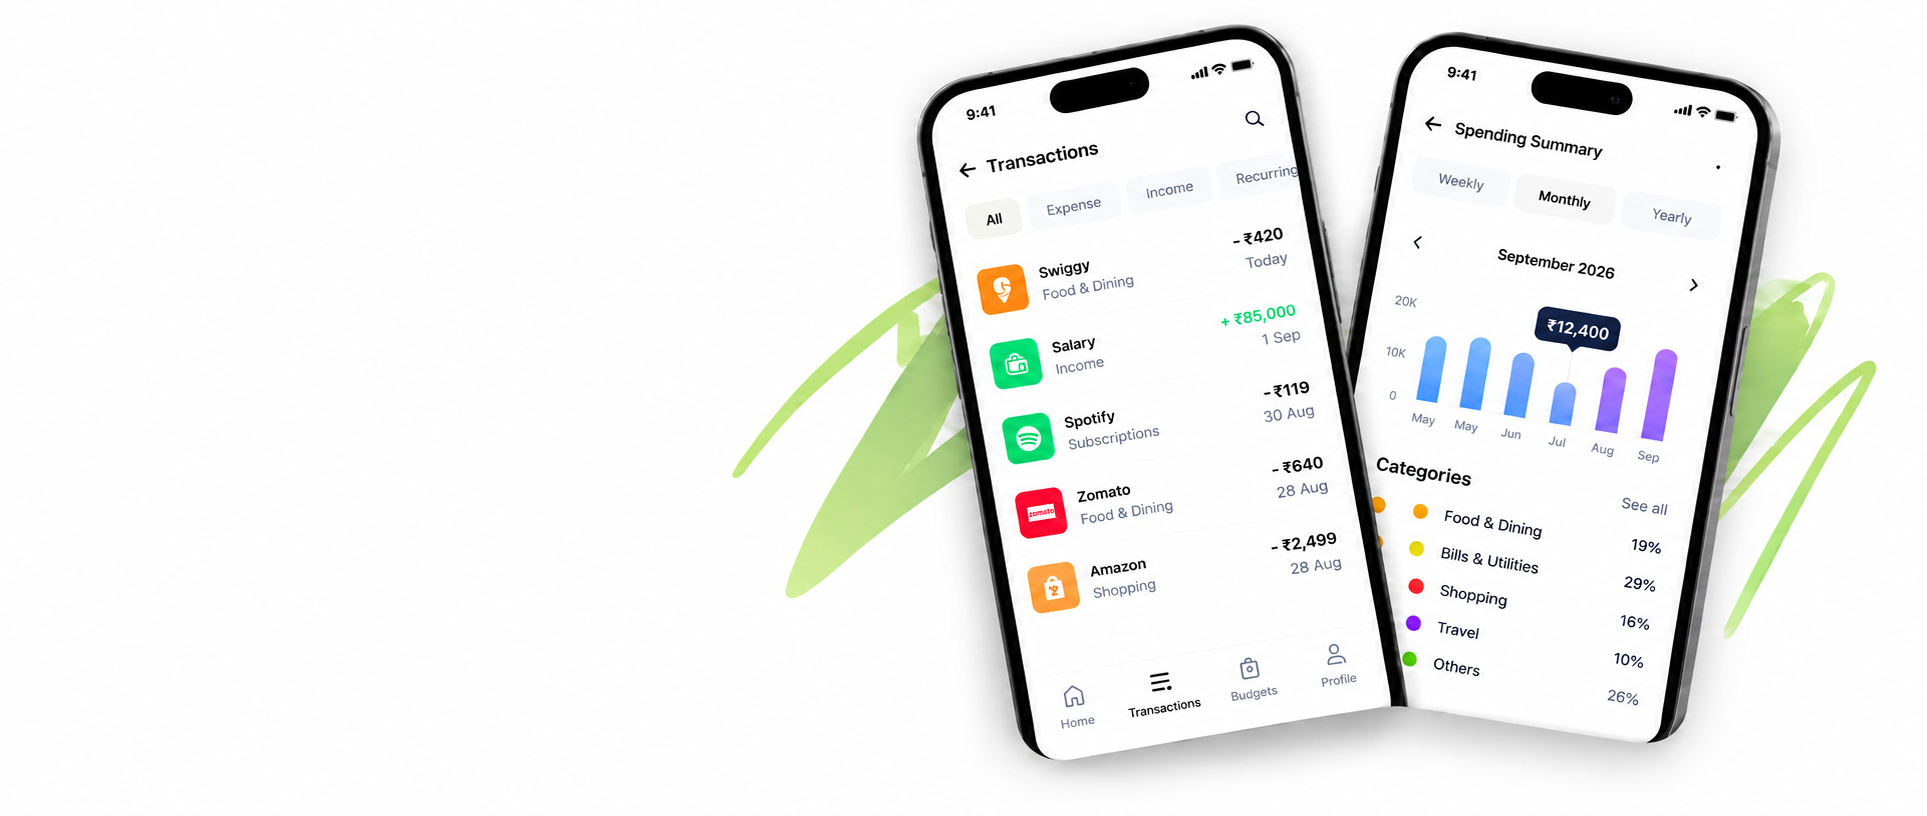
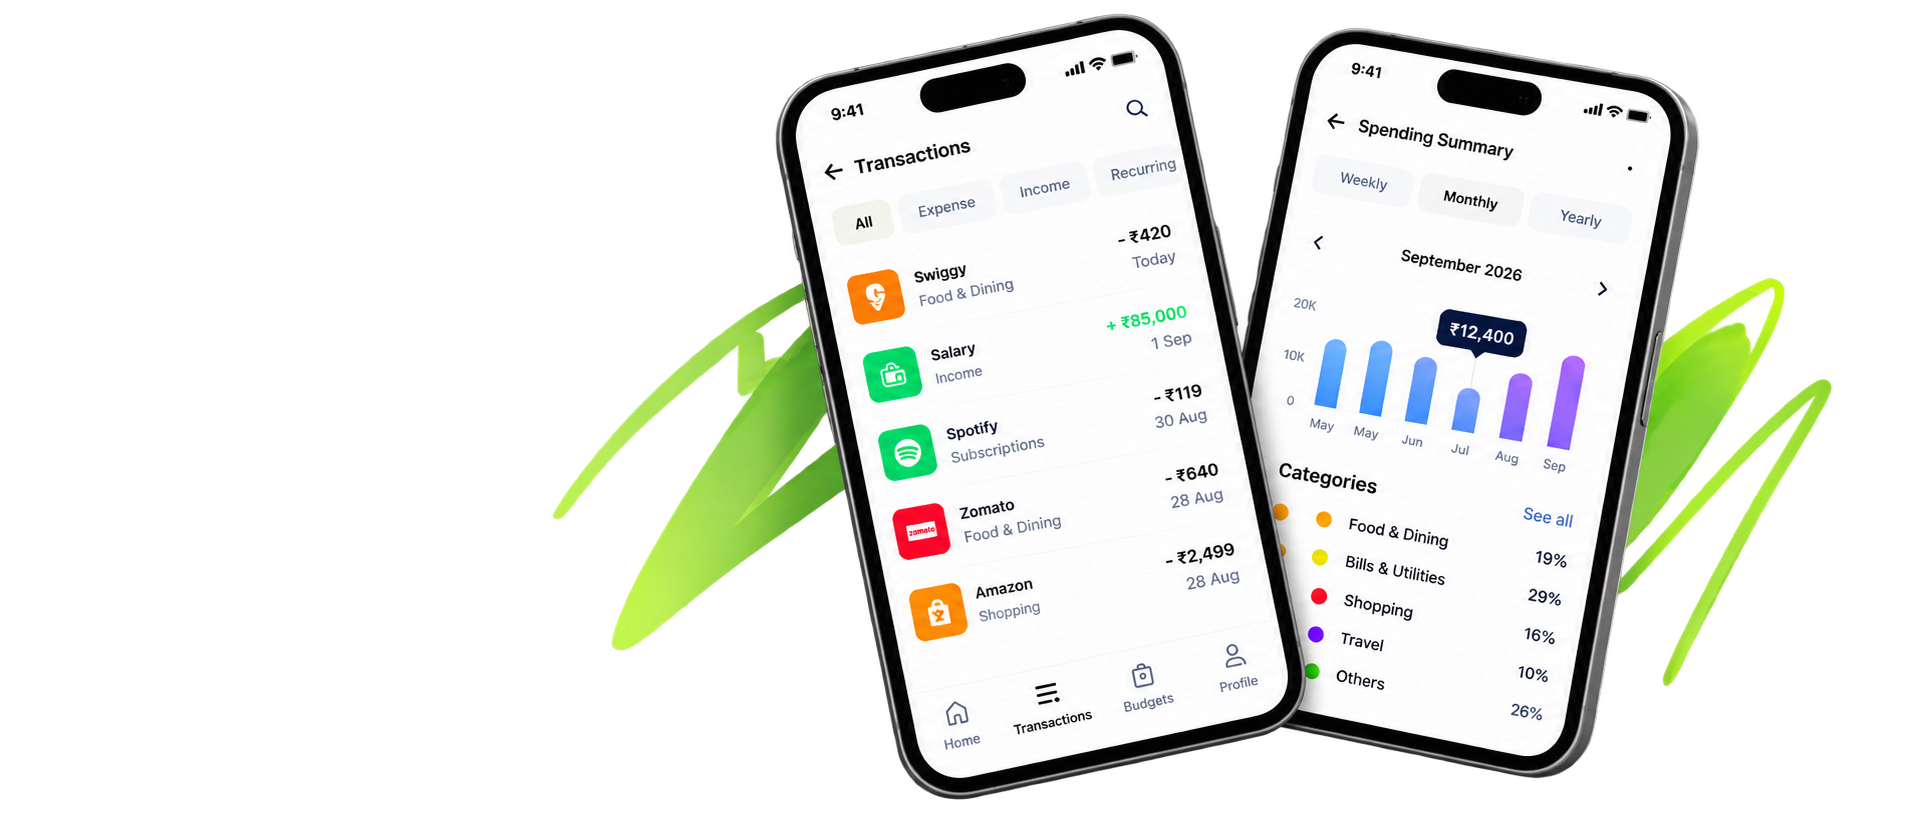
Mobile Showcase Section

Changed region(s): [[0.2802, 0.0, 0.9964, 0.9804]]

diff --git a/components/landing/mobile-showcase.tsx b/components/landing/mobile-showcase.tsx
@@ -53,14 +53,20 @@ export default function MobileShowcase() {
             </div>
           </div>
 
-          <div className="relative flex min-h-[280px] items-end justify-end overflow-hidden py-6 pl-4 pr-0 sm:min-h-[340px] lg:min-h-0 lg:py-10 lg:pl-0">
+          {/* No `fill` — mobile-overview.png sizes itself from its real aspect
+    ratio via h-auto, so there's no invisible box that can end up taller
+    than the image (that invisible box was the source of the green gap
+    above/below the phones). IMPORTANT: swap width/height below for your
+    PNG's actual pixel dimensions — run `file images/mobile-overview.png`
+    or check it in Finder/Preview. Wrong values here will stretch it. */}
+          <div className="relative flex items-end justify-end p-4 sm:p-6 lg:p-8">
             <Image
               src="/images/mobile-overview.png"
               alt="FinTrack mobile transactions list next to a monthly spending summary chart with category breakdown"
-              width={1928}
-              height={816}
-              sizes="(min-width: 1024px) 620px, 100vw"
-              className="h-auto w-[135%] max-w-none translate-x-[8%] object-contain object-right lg:w-[128%] lg:translate-x-[12%]"
+              width={1600} /* ← replace with the real width of your file */
+              height={1300} /* ← replace with the real height of your file */
+              sizes="(min-width: 1024px) 45vw, 100vw"
+              className="h-auto w-full max-w-[560px]"
             />
           </div>
         </div>
